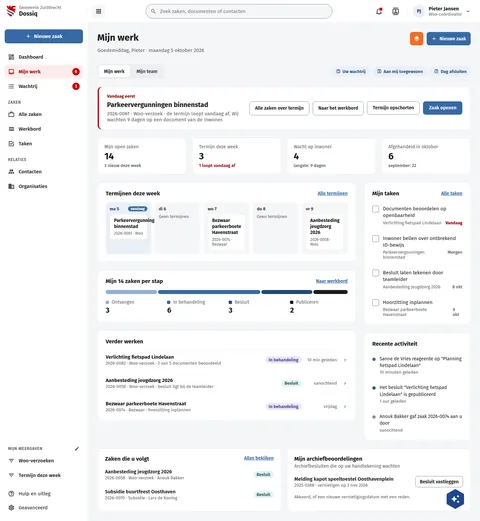
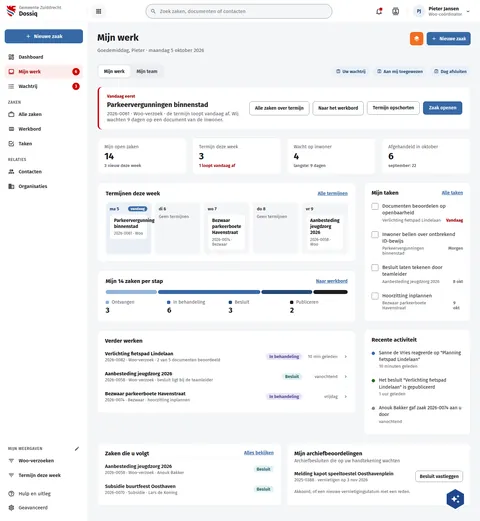
fix(screens): DqMijnWerk draws its side and continue cards as every Dq card
"Verder werken", "Mijn taken" and "Recente activiteit" were drawn 22px 24px
in, with their own title margins (6, 8px) and the section gap between rows
(4, 6px). Every other Dq dashboard card is 20px 22px in, title, 6px, rule,
12px rows (DqDashboard, DqMijnTeam, "Zaken die u volgt" on this board).
The three cards now follow that. Board and thumbnail rebuilt with build.py
--only DqMijnWerk; the height does not move, screens.json unchanged.

Assisted-by: ClaudeCode:claude-opus-5-5

diff --git a/preview/screens/boards/DqMijnWerk.html b/preview/screens/boards/DqMijnWerk.html
@@ -269,37 +269,37 @@ a{color:var(--sc-primary, #3669a5)}a:hover{color:var(--sc-primary-deep, #234a78)
               </ul>
             </section>
 
-            <section aria-labelledby="verder" style="background: #ffffff; border: 1px solid var(--sc-work-line, #e4e6ea); border-radius: 12px; padding: 22px 24px 10px; display: flex; flex-direction: column; gap: 6px">
-              <h2 id="verder" style="margin: 0 0 6px; font-size: 17px; font-weight: 700">Verder werken</h2>
-              
-                <a href="DqZaak.html" style="display: flex; flex-wrap: wrap; align-items: center; gap: 8px 16px; padding: 14px 0; border-top: 1px solid var(--sc-work-soft, #eef0f3); color: var(--sc-work-ink, #1b1c1d); text-decoration: none">
+            <section aria-labelledby="verder" style="background: #ffffff; border: 1px solid var(--sc-work-line, #e4e6ea); border-radius: 12px; padding: 20px 22px; display: flex; flex-direction: column; gap: 6px">
+              <h2 id="verder" style="margin: 0; font-size: 17px; font-weight: 700">Verder werken</h2>
+              <div style="display: flex; flex-direction: column">
+                <a href="DqZaak.html" style="display: flex; flex-wrap: wrap; align-items: center; gap: 8px 16px; padding: 12px 0; border-top: 1px solid var(--sc-work-soft, #eef0f3); color: var(--sc-work-ink, #1b1c1d); text-decoration: none">
                   <span style="flex: 1 1 260px; display: flex; flex-direction: column; gap: 2px"><strong style="font-size: 15px">Verlichting fietspad Lindelaan</strong><span style="font-size: 13px; color: var(--sc-work-muted, #5e6168)">2026-0082 · Woo-verzoek · 2 van 5 documenten beoordeeld</span></span>
                   <span style="padding: 3px 10px; border-radius: 12px; font-size: 13px; font-weight: 600; background: #e8e6f6; color: #4a3f8f">In behandeling</span>
                   <span style="flex: 0 0 90px; font-size: 13px; color: var(--sc-work-muted, #5e6168); text-align: right">10 min geleden</span>
                   <svg width="16" height="16" viewbox="0 0 24 24" fill="#3669a5" style="flex: none;fill:var(--sc-primary, #3669a5)"><path d="M8.59,16.58L13.17,12L8.59,7.41L10,6L16,12L10,18L8.59,16.58Z"></path></svg>
                 </a>
               
-                <a href="DqZaak.html" style="display: flex; flex-wrap: wrap; align-items: center; gap: 8px 16px; padding: 14px 0; border-top: 1px solid var(--sc-work-soft, #eef0f3); color: var(--sc-work-ink, #1b1c1d); text-decoration: none">
+                <a href="DqZaak.html" style="display: flex; flex-wrap: wrap; align-items: center; gap: 8px 16px; padding: 12px 0; border-top: 1px solid var(--sc-work-soft, #eef0f3); color: var(--sc-work-ink, #1b1c1d); text-decoration: none">
                   <span style="flex: 1 1 260px; display: flex; flex-direction: column; gap: 2px"><strong style="font-size: 15px">Aanbesteding jeugdzorg 2026</strong><span style="font-size: 13px; color: var(--sc-work-muted, #5e6168)">2026-0058 · Woo-verzoek · besluit ligt bij de teamleider</span></span>
                   <span style="padding: 3px 10px; border-radius: 12px; font-size: 13px; font-weight: 600; background: #e3f1f3; color: #1d5e66">Besluit</span>
                   <span style="flex: 0 0 90px; font-size: 13px; color: var(--sc-work-muted, #5e6168); text-align: right">vanochtend</span>
                   <svg width="16" height="16" viewbox="0 0 24 24" fill="#3669a5" style="flex: none;fill:var(--sc-primary, #3669a5)"><path d="M8.59,16.58L13.17,12L8.59,7.41L10,6L16,12L10,18L8.59,16.58Z"></path></svg>
                 </a>
               
-                <a href="DqZaak.html" style="display: flex; flex-wrap: wrap; align-items: center; gap: 8px 16px; padding: 14px 0; border-top: 1px solid var(--sc-work-soft, #eef0f3); color: var(--sc-work-ink, #1b1c1d); text-decoration: none">
+                <a href="DqZaak.html" style="display: flex; flex-wrap: wrap; align-items: center; gap: 8px 16px; padding: 12px 0; border-top: 1px solid var(--sc-work-soft, #eef0f3); color: var(--sc-work-ink, #1b1c1d); text-decoration: none">
                   <span style="flex: 1 1 260px; display: flex; flex-direction: column; gap: 2px"><strong style="font-size: 15px">Bezwaar parkeerboete Havenstraat</strong><span style="font-size: 13px; color: var(--sc-work-muted, #5e6168)">2026-0074 · Bezwaar · hoorzitting inplannen</span></span>
                   <span style="padding: 3px 10px; border-radius: 12px; font-size: 13px; font-weight: 600; background: #e8e6f6; color: #4a3f8f">In behandeling</span>
                   <span style="flex: 0 0 90px; font-size: 13px; color: var(--sc-work-muted, #5e6168); text-align: right">vrijdag</span>
                   <svg width="16" height="16" viewbox="0 0 24 24" fill="#3669a5" style="flex: none;fill:var(--sc-primary, #3669a5)"><path d="M8.59,16.58L13.17,12L8.59,7.41L10,6L16,12L10,18L8.59,16.58Z"></path></svg>
                 </a>
-              
+              </div>
             </section>
           </div>
 
           <div style="flex: 1 1 320px; min-width: 0; display: flex; flex-direction: column; gap: 24px">
-            <section aria-labelledby="taken" style="background: #ffffff; border: 1px solid var(--sc-work-line, #e4e6ea); border-radius: 12px; padding: 22px 24px 10px; display: flex; flex-direction: column; gap: 4px">
-              <div style="display: flex; justify-content: space-between; align-items: center; margin-bottom: 8px"><h2 id="taken" style="margin: 0; font-size: 17px; font-weight: 700">Mijn taken</h2><a href="#" style="font-size: 14px; font-weight: 600">Alle taken</a></div>
-              
+            <section aria-labelledby="taken" style="background: #ffffff; border: 1px solid var(--sc-work-line, #e4e6ea); border-radius: 12px; padding: 20px 22px; display: flex; flex-direction: column; gap: 6px">
+              <div style="display: flex; justify-content: space-between; align-items: center"><h2 id="taken" style="margin: 0; font-size: 17px; font-weight: 700">Mijn taken</h2><a href="#" style="font-size: 14px; font-weight: 600">Alle taken</a></div>
+              <div style="display: flex; flex-direction: column">
                 <label style="display: flex; gap: 12px; padding: 12px 0; border-top: 1px solid var(--sc-work-soft, #eef0f3); align-items: flex-start">
                   <input type="checkbox" style="width: 20px; height: 20px; margin: 1px 0 0; accent-color: var(--sc-primary, #3669a5); flex: none">
                   <span style="flex: 1; display: flex; flex-direction: column; gap: 4px">
@@ -331,11 +331,11 @@ a{color:var(--sc-primary, #3669a5)}a:hover{color:var(--sc-primary-deep, #234a78)
                     <span style="display: flex; justify-content: space-between; gap: 8px; font-size: 13px"><span style="color: var(--sc-work-muted, #5e6168)">Bezwaar parkeerboete Havenstraat</span><span style="font-weight: 500; color: var(--sc-work-muted, #5e6168)">9 okt</span></span>
                   </span>
                 </label>
-              
+              </div>
             </section>
-            <section aria-labelledby="act" style="background: #ffffff; border: 1px solid var(--sc-work-line, #e4e6ea); border-radius: 12px; padding: 22px 24px 10px; display: flex; flex-direction: column; gap: 4px">
-              <h2 id="act" style="margin: 0 0 8px; font-size: 17px; font-weight: 700">Recente activiteit</h2>
-              
+            <section aria-labelledby="act" style="background: #ffffff; border: 1px solid var(--sc-work-line, #e4e6ea); border-radius: 12px; padding: 20px 22px; display: flex; flex-direction: column; gap: 6px">
+              <h2 id="act" style="margin: 0; font-size: 17px; font-weight: 700">Recente activiteit</h2>
+              <div style="display: flex; flex-direction: column">
                 <div style="display: flex; gap: 12px; padding: 12px 0; border-top: 1px solid var(--sc-work-soft, #eef0f3)">
                   <span style="width: 10px; height: 10px; flex: none; margin-top: 6px; border-radius: 5px; background: var(--sc-primary, #3669a5)"></span>
                   <span style="display: flex; flex-direction: column; gap: 2px"><span style="font-size: 14px; line-height: 1.45">Sanne de Vries reageerde op "Planning fietspad Lindelaan"</span><span style="font-size: 13px; color: var(--sc-work-muted, #5e6168)">10 minuten geleden</span></span>
@@ -350,7 +350,7 @@ a{color:var(--sc-primary, #3669a5)}a:hover{color:var(--sc-primary-deep, #234a78)
                   <span style="width: 10px; height: 10px; flex: none; margin-top: 6px; border-radius: 5px; background: var(--sc-work-field, #828a95)"></span>
                   <span style="display: flex; flex-direction: column; gap: 2px"><span style="font-size: 14px; line-height: 1.45">Anouk Bakker gaf zaak 2026-0074 aan u door</span><span style="font-size: 13px; color: var(--sc-work-muted, #5e6168)">vanochtend</span></span>
                 </div>
-              
+              </div>
             </section>
           </div>
         </div>

diff --git a/screens-src/zuiddrecht/DqMijnWerk.dc.html b/screens-src/zuiddrecht/DqMijnWerk.dc.html
@@ -90,23 +90,23 @@ a{color:#3669a5}a:hover{color:#234a78}
               </ul>
             </section>
 
-            <section aria-labelledby="verder" style="background: #ffffff; border: 1px solid #e4e6ea; border-radius: 12px; padding: 22px 24px 10px; display: flex; flex-direction: column; gap: 6px">
-              <h2 id="verder" style="margin: 0 0 6px; font-size: 17px; font-weight: 700">Verder werken</h2>
-              <sc-for list="{{ recent }}" as="r" hint-placeholder-count="3">
-                <a href="DqZaak.dc.html" style="display: flex; flex-wrap: wrap; align-items: center; gap: 8px 16px; padding: 14px 0; border-top: 1px solid #eef0f3; color: #1b1c1d; text-decoration: none">
+            <section aria-labelledby="verder" style="background: #ffffff; border: 1px solid #e4e6ea; border-radius: 12px; padding: 20px 22px; display: flex; flex-direction: column; gap: 6px">
+              <h2 id="verder" style="margin: 0; font-size: 17px; font-weight: 700">Verder werken</h2>
+              <div style="display: flex; flex-direction: column"><sc-for list="{{ recent }}" as="r" hint-placeholder-count="3">
+                <a href="DqZaak.dc.html" style="display: flex; flex-wrap: wrap; align-items: center; gap: 8px 16px; padding: 12px 0; border-top: 1px solid #eef0f3; color: #1b1c1d; text-decoration: none">
                   <span style="flex: 1 1 260px; display: flex; flex-direction: column; gap: 2px"><strong style="font-size: 15px">{{ r.title }}</strong><span style="font-size: 13px; color: #5e6168">{{ r.meta }}</span></span>
                   <span style="{{ r.pill }}">{{ r.status }}</span>
                   <span style="flex: 0 0 90px; font-size: 13px; color: #5e6168; text-align: right">{{ r.when }}</span>
                   <svg width="16" height="16" viewBox="0 0 24 24" fill="#3669a5" style="flex: none"><path d="M8.59,16.58L13.17,12L8.59,7.41L10,6L16,12L10,18L8.59,16.58Z"></path></svg>
                 </a>
-              </sc-for>
+              </sc-for></div>
             </section>
           </div>
 
           <div style="flex: 1 1 320px; min-width: 0; display: flex; flex-direction: column; gap: 24px">
-            <section aria-labelledby="taken" style="background: #ffffff; border: 1px solid #e4e6ea; border-radius: 12px; padding: 22px 24px 10px; display: flex; flex-direction: column; gap: 4px">
-              <div style="display: flex; justify-content: space-between; align-items: center; margin-bottom: 8px"><h2 id="taken" style="margin: 0; font-size: 17px; font-weight: 700">Mijn taken</h2><a href="#" style="font-size: 14px; font-weight: 600">Alle taken</a></div>
-              <sc-for list="{{ tasks }}" as="t" hint-placeholder-count="4">
+            <section aria-labelledby="taken" style="background: #ffffff; border: 1px solid #e4e6ea; border-radius: 12px; padding: 20px 22px; display: flex; flex-direction: column; gap: 6px">
+              <div style="display: flex; justify-content: space-between; align-items: center"><h2 id="taken" style="margin: 0; font-size: 17px; font-weight: 700">Mijn taken</h2><a href="#" style="font-size: 14px; font-weight: 600">Alle taken</a></div>
+              <div style="display: flex; flex-direction: column"><sc-for list="{{ tasks }}" as="t" hint-placeholder-count="4">
                 <label style="display: flex; gap: 12px; padding: 12px 0; border-top: 1px solid #eef0f3; align-items: flex-start">
                   <input type="checkbox" style="width: 20px; height: 20px; margin: 1px 0 0; accent-color: #3669a5; flex: none">
                   <span style="flex: 1; display: flex; flex-direction: column; gap: 4px">
@@ -114,16 +114,16 @@ a{color:#3669a5}a:hover{color:#234a78}
                     <span style="display: flex; justify-content: space-between; gap: 8px; font-size: 13px"><span style="color: #5e6168">{{ t.tag }}</span><span style="{{ t.dueStyle }}">{{ t.due }}</span></span>
                   </span>
                 </label>
-              </sc-for>
+              </sc-for></div>
             </section>
-            <section aria-labelledby="act" style="background: #ffffff; border: 1px solid #e4e6ea; border-radius: 12px; padding: 22px 24px 10px; display: flex; flex-direction: column; gap: 4px">
-              <h2 id="act" style="margin: 0 0 8px; font-size: 17px; font-weight: 700">Recente activiteit</h2>
-              <sc-for list="{{ activity }}" as="a" hint-placeholder-count="3">
+            <section aria-labelledby="act" style="background: #ffffff; border: 1px solid #e4e6ea; border-radius: 12px; padding: 20px 22px; display: flex; flex-direction: column; gap: 6px">
+              <h2 id="act" style="margin: 0; font-size: 17px; font-weight: 700">Recente activiteit</h2>
+              <div style="display: flex; flex-direction: column"><sc-for list="{{ activity }}" as="a" hint-placeholder-count="3">
                 <div style="display: flex; gap: 12px; padding: 12px 0; border-top: 1px solid #eef0f3">
                   <span style="{{ a.dot }}"></span>
                   <span style="display: flex; flex-direction: column; gap: 2px"><span style="font-size: 14px; line-height: 1.45">{{ a.text }}</span><span style="font-size: 13px; color: #5e6168">{{ a.when }}</span></span>
                 </div>
-              </sc-for>
+              </sc-for></div>
             </section>
           </div>
         </div>
